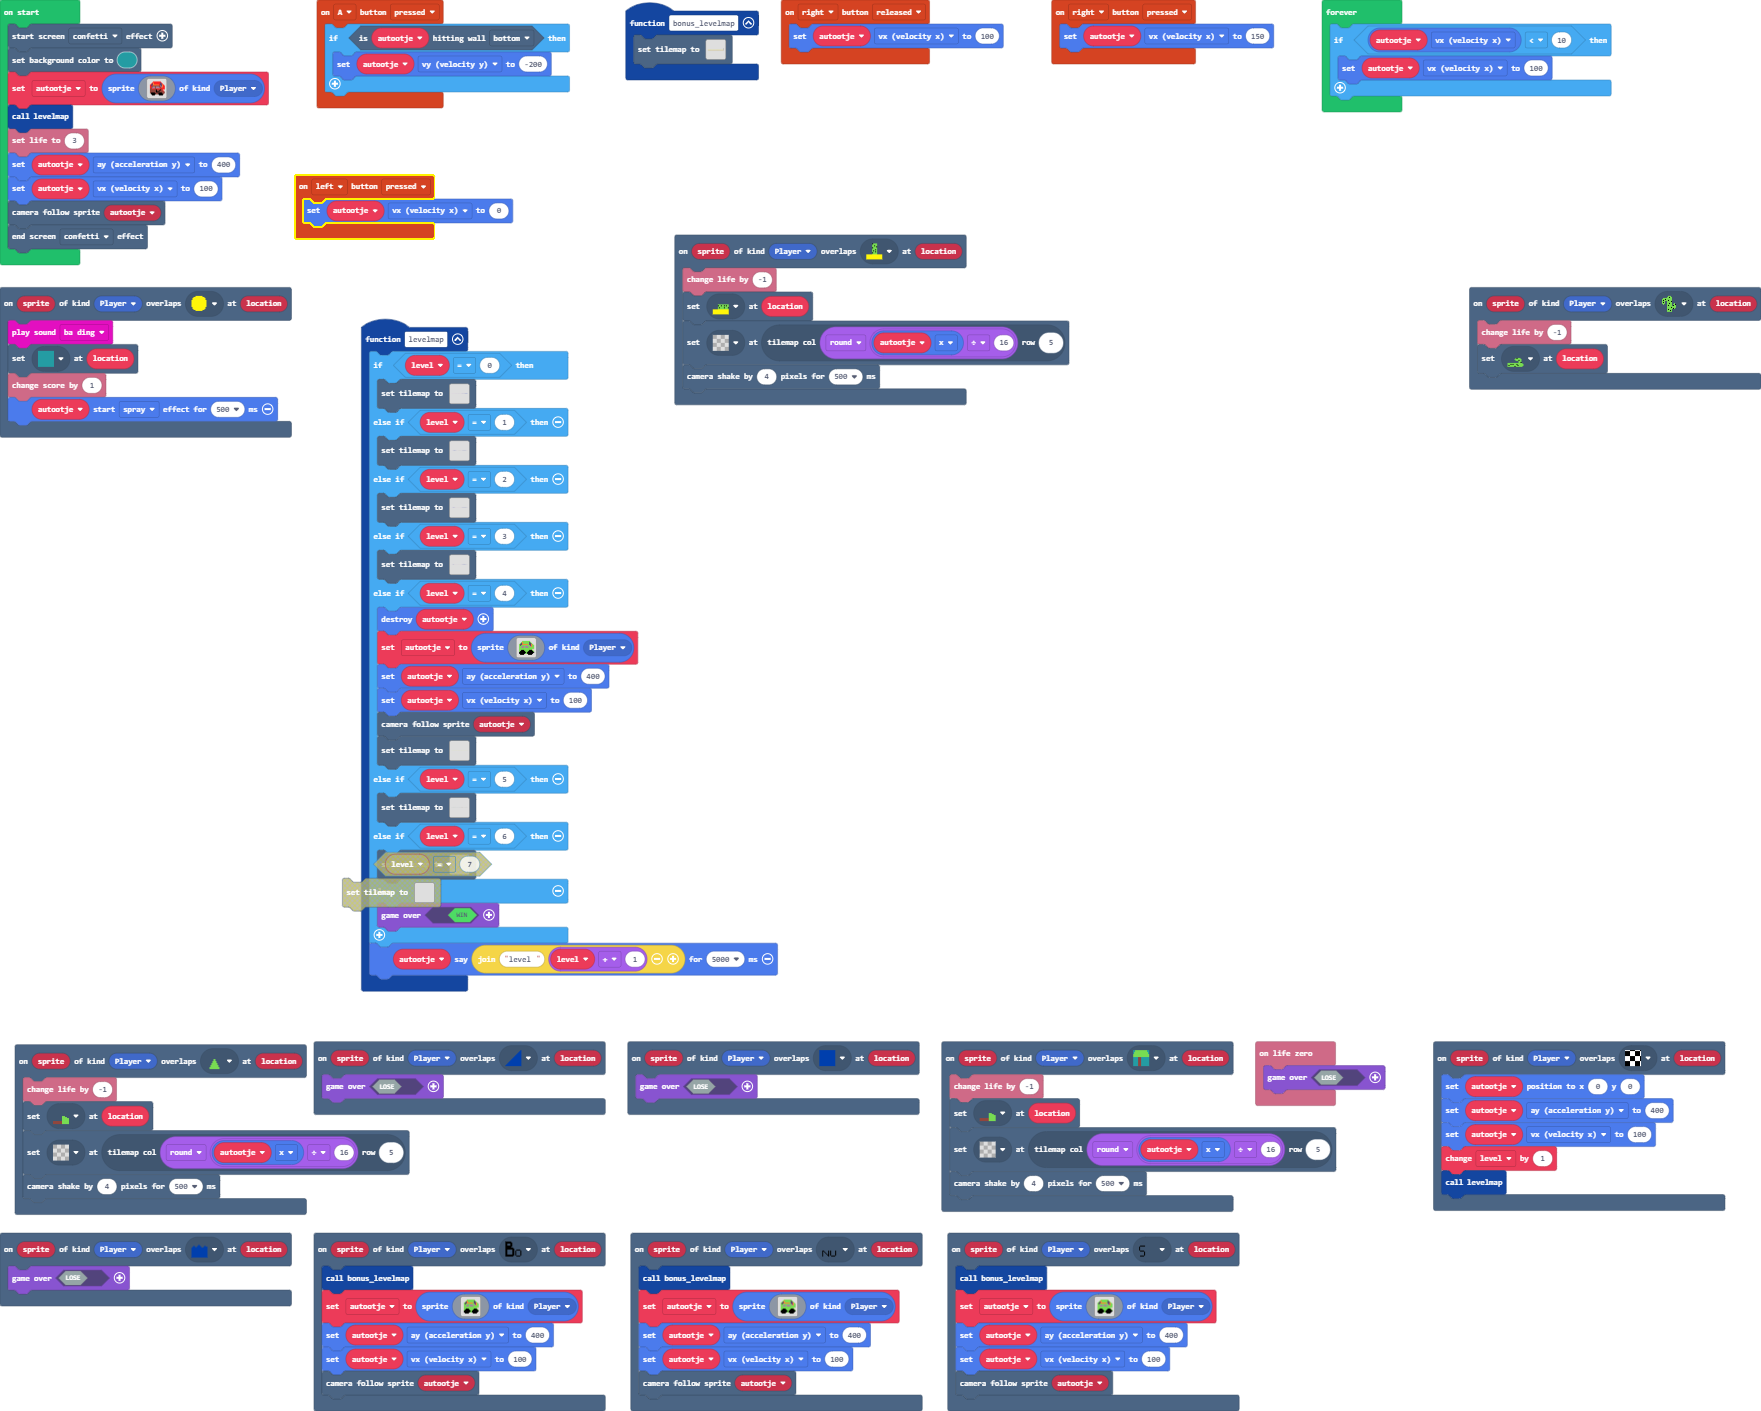
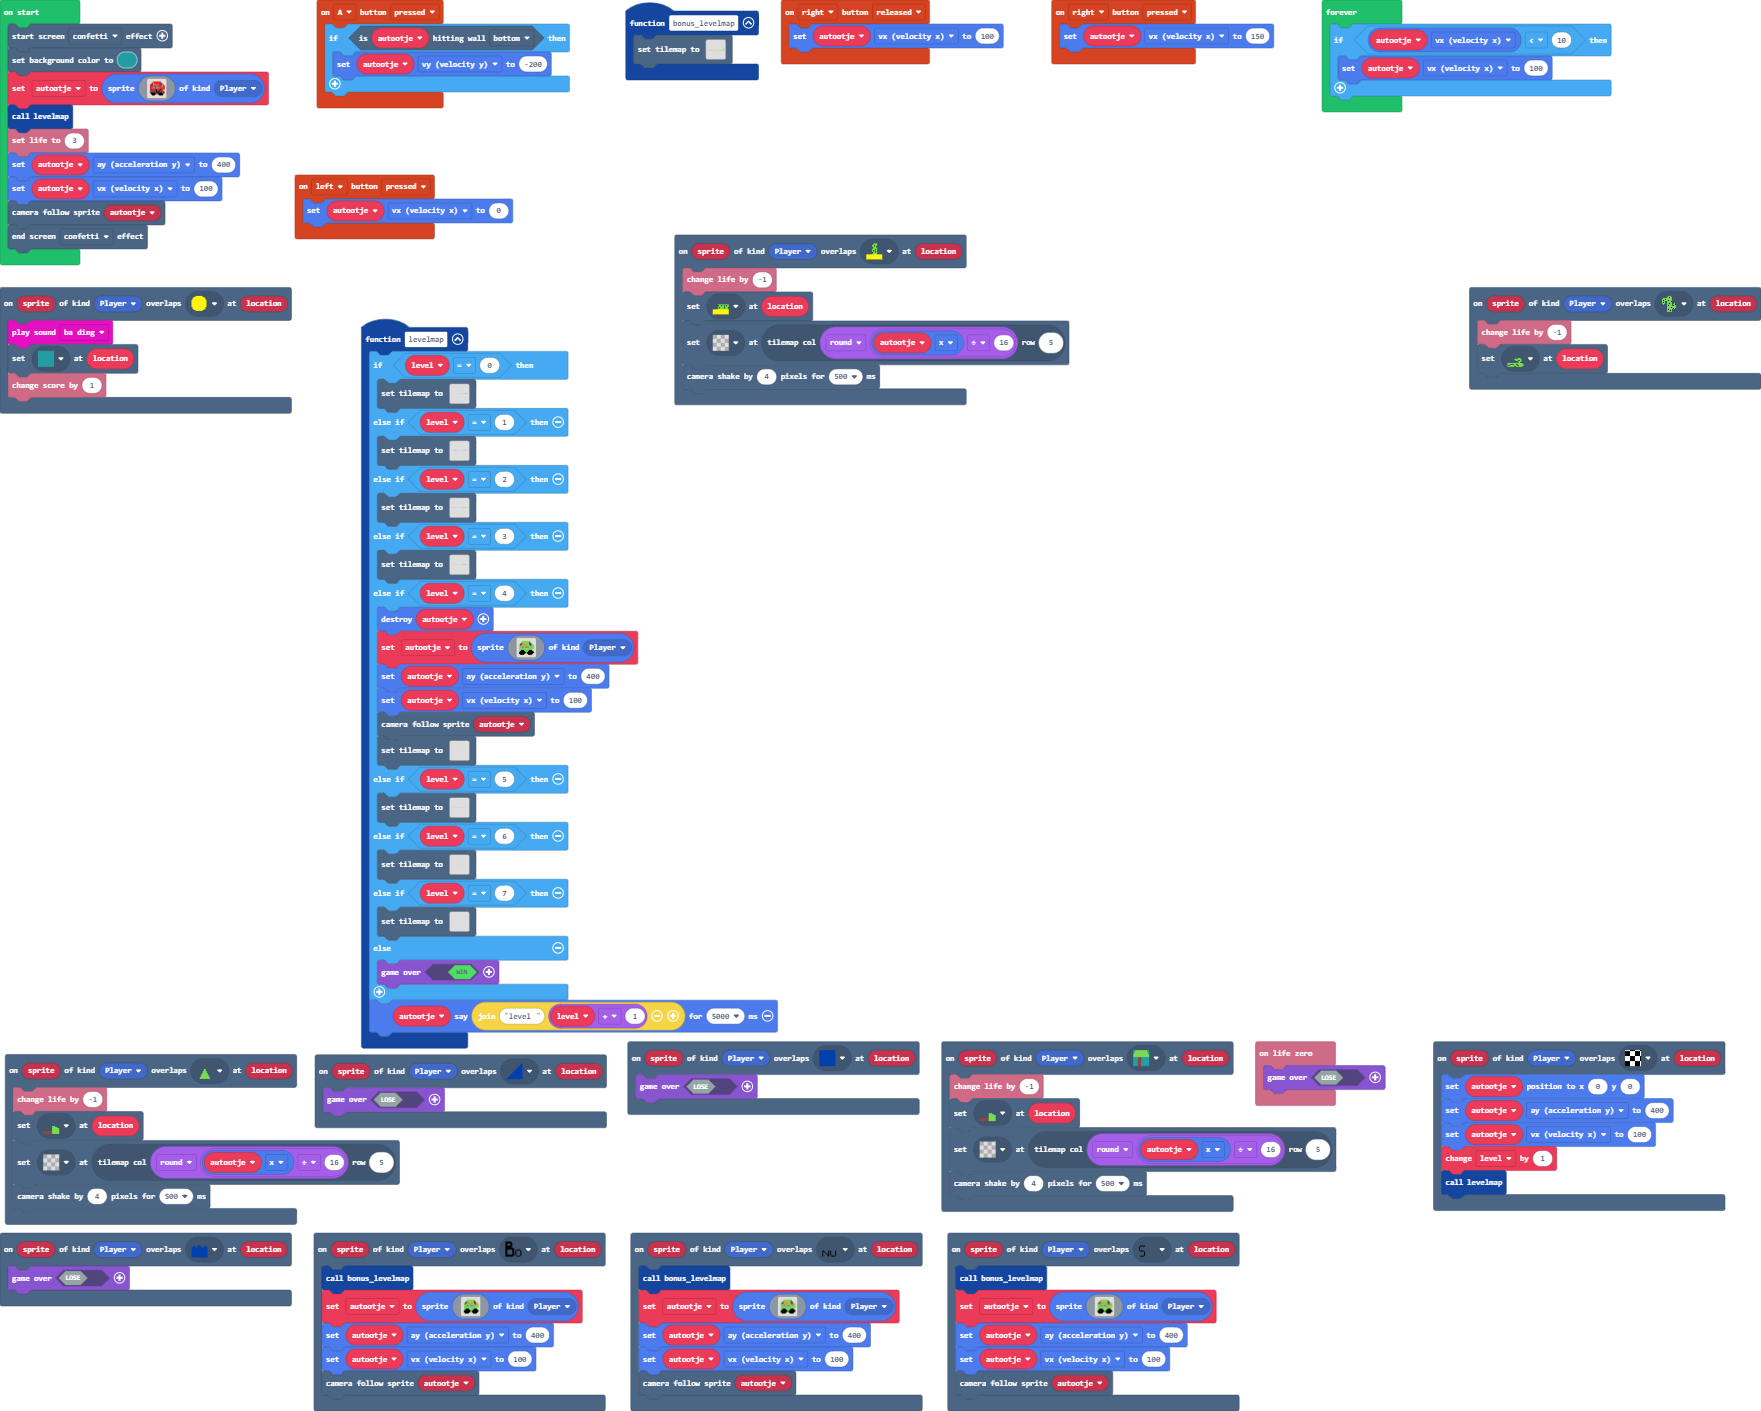
Update pxt.json, main.blocks, main.ts

Changed region(s): [[0.0, 0.5925, 0.4373, 0.8731], [0.0, 0.2807, 0.1874, 0.3118]]

diff --git a/main.ts b/main.ts
@@ -41,6 +41,8 @@ function levelmap () {
         tiles.setTilemap(tilemap`level_13`)
     } else if (level == 6) {
         tiles.setTilemap(tilemap`level_14`)
+    } else if (level == 7) {
+        tiles.setTilemap(tilemap`level_15`)
     } else {
         game.over(true)
     }
@@ -86,7 +88,6 @@ scene.onOverlapTile(SpriteKind.Player, myTiles.tile4, function (sprite, location
     music.baDing.play()
     tiles.setTileAt(location, myTiles.tile9)
     info.changeScoreBy(1)
-    autootje.startEffect(effects.spray, 500)
 })
 scene.onOverlapTile(SpriteKind.Player, myTiles.tile42, function (sprite, location) {
     bonus_levelmap()
